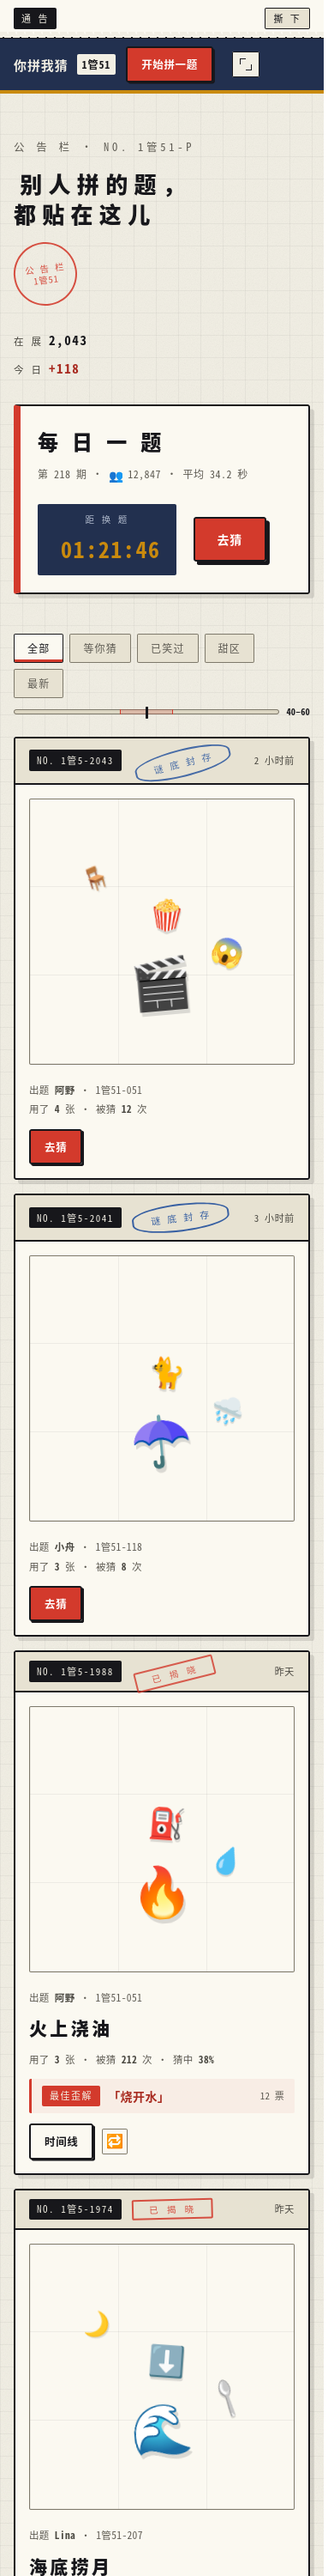
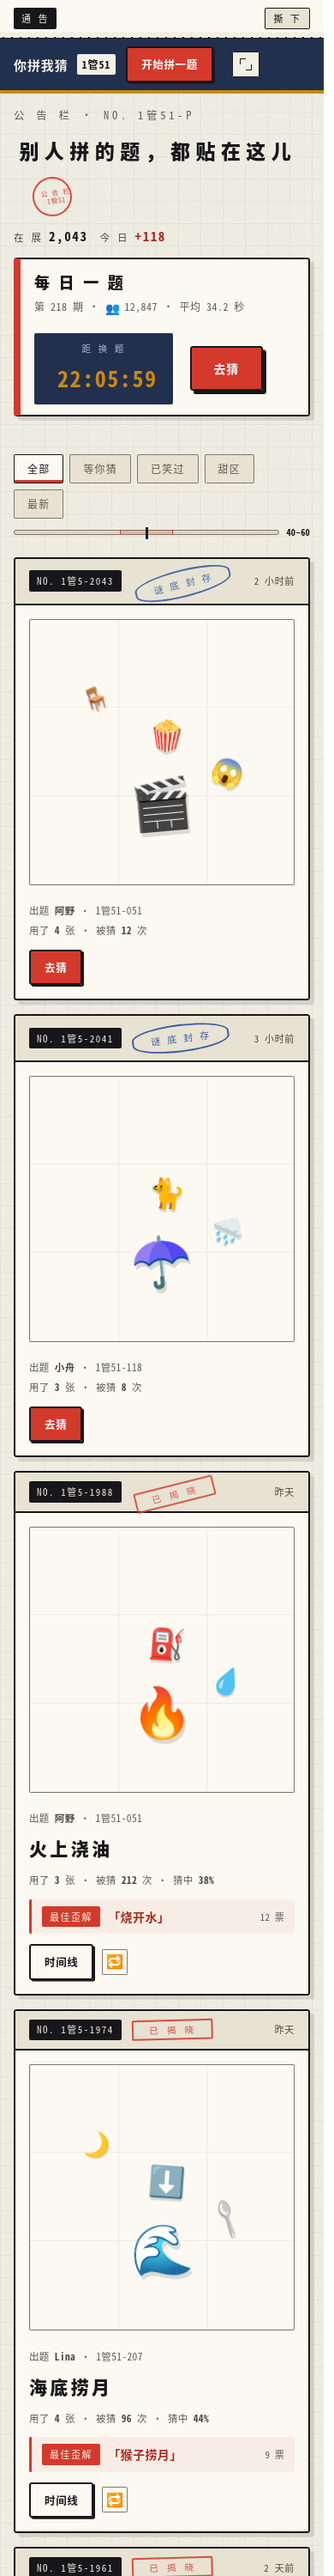
广场报头 465px → 221px（占屏 52% → 25%），首条内容从 68% 处上移到 47%
## 起因

kimi-k3 现在能看图了。我先自己看了一遍九张页面，
最重的一条是**竖向着墨比例失衡**：每页顶部的报头都占掉 250–465px，
内容要到屏幕 45% 处才开始，一屏只看得到两行内容。

这与你之前提过的「不要总是居中，不利用边缘，总让用户翻页」是同一个病 ——
我只修了拼图台，没有推广。

## 广场实测（改前）

    报头 section.head   y117  高 465  占屏 52%
      └ 每日一题         y443  高 127  占屏 14%
    右栏榜单            y616        ← 内容到 68% 处才开始
    文档高 2822px = 3.1 屏

## 改法

把「标签 / 标题 / 两个数字 / 印章」从**竖直堆叠**改成**一条横带**：
  · h1 去掉 <br>，两行变一行，字号 34 → 23
  · .head-grid 从 grid 两列改 flex 单行，标题与标签、印章并排
  · .head-side 从竖排数字改横排（在展 / 今日同一行）
  · 圆章 74px → 46px（原来比一行标题还高，挤在末尾像贴歪了）
  · 每日一题 padding 20/24 → 12/20，h2 24 → 18

## 广场实测（改后）

    报头   y117  高 221  占屏 25%
    首条内容 y426（屏高 47%）
    文档高 2578px = 2.9 屏

首屏现在能看到：报头横带 + 每日一题 + 筛选 + **两张完整票根** + 完整的「最佳歪解」榜。

## 一处自己踩的

印章缩小后 `margin-left:10px` 把标题最后一个字（「儿」）压住了 ——
截图放大才看出来，改成 22px。

其余 12 页还没做，这是第一页。

diff --git a/app/plaza.html b/app/plaza.html
@@ -28,22 +28,31 @@
 .bl-x:hover{background:var(--ink);color:var(--paper)}
 
 /* ---------- 页头 ---------- */
-.head{padding:46px 0 12px}
-.head-grid{display:grid;grid-template-columns:1fr auto;gap:40px;align-items:end}
-@media(max-width:860px){.head-grid{grid-template-columns:1fr;gap:26px}}
-.head h1{margin:14px 0 16px}
-.head-stamps{display:flex;gap:14px;align-items:center;flex-wrap:wrap}
+/* 报头压成横带。改前实测：报头 y117 高 465 = **占屏 52%**，
+   内容到 y616（屏高 68%）才开始，而文档高 2822px（3.1 屏）——
+   也就是第一屏的一半是报头，用户要翻页才看得到内容。
+   现在「标签 / 标题 / 两个数字 / 印章」并成一行，「每日一题」是第二条横带。 */
+.head{padding:14px 0 10px}
+.head-grid{display:flex;align-items:center;gap:18px;flex-wrap:wrap}
+.head-grid>div:first-child{display:flex;align-items:baseline;gap:16px;flex:1 1 auto;min-width:0;flex-wrap:wrap}
+@media(max-width:860px){.head-grid{gap:10px}.head h1{white-space:normal}}
+.head h1{margin:0;font-size:23px;line-height:1.3;white-space:nowrap}
+.head-stamps{display:flex;gap:8px;align-items:center}
+/* 报头压成一行后，原来的 74px 圆章比一行标题还高，挤在标题末尾像贴歪了。
+   缩到 46px 并给它 10px 左间距，让它读作「标题旁的一枚章」而不是「第三个标题」。 */
+.head-stamps .stamp.round{width:46px;height:46px;font-size:8px;letter-spacing:.06em;
+  line-height:1.15;display:grid;place-items:center;margin-left:22px}
 /* 页头右侧：三个数字，不加「件」不加形容 */
-.head-side{text-align:right;display:flex;flex-direction:column;align-items:flex-end;gap:8px}
+.head-side{display:flex;flex-direction:row;align-items:baseline;gap:20px;white-space:nowrap}
 .head-side .n{color:var(--ink);font-family:var(--mono);font-size:15px;font-weight:700}
 .head-side .n.red{color:var(--red-ink)}
-@media(max-width:860px){.head-side{text-align:left;align-items:flex-start}}
+@media(max-width:860px){.head-side{gap:14px}}
 
 /* 每日一题：公告本身是纸，只有倒计时那一小块是屏 */
-.today{margin-top:30px;background:var(--paper-4);border:2px solid var(--ink);border-radius:var(--rad);
-  box-shadow:var(--sh-soft);display:grid;grid-template-columns:1fr auto;gap:24px;align-items:center;
-  padding:20px 24px 20px 20px;border-left:8px solid var(--red)}
-.today h2{font-size:24px;font-weight:900;letter-spacing:.22em;margin-bottom:8px;color:var(--ink)}
+.today{margin-top:12px;background:var(--paper-4);border:2px solid var(--ink);border-radius:var(--rad);
+  box-shadow:var(--sh-soft);display:grid;grid-template-columns:1fr auto;gap:20px;align-items:center;
+  padding:12px 20px 12px 16px;border-left:8px solid var(--red)}
+.today h2{font-size:18px;font-weight:900;letter-spacing:.18em;margin-bottom:3px;color:var(--ink)}
 .today .kv{font-family:var(--mono);font-size:12px;color:var(--ink-3);letter-spacing:.04em}
 .today .right{display:flex;align-items:center;gap:20px;flex-wrap:wrap}
 .today .cd b{font-variant-numeric:tabular-nums;margin-left:9px}
@@ -185,7 +194,7 @@
     <div class="head-grid">
       <div>
         <span class="lbl-lg">公 告 栏 · NO. 1管51-P</span>
-        <h1 class="tk">别人拼的题，<br>都贴在这儿</h1>
+        <h1 class="tk">别人拼的题，都贴在这儿</h1>
         <div class="head-stamps">
           <span class="stamp round">公 告 栏<br>1管51</span>
         </div>
